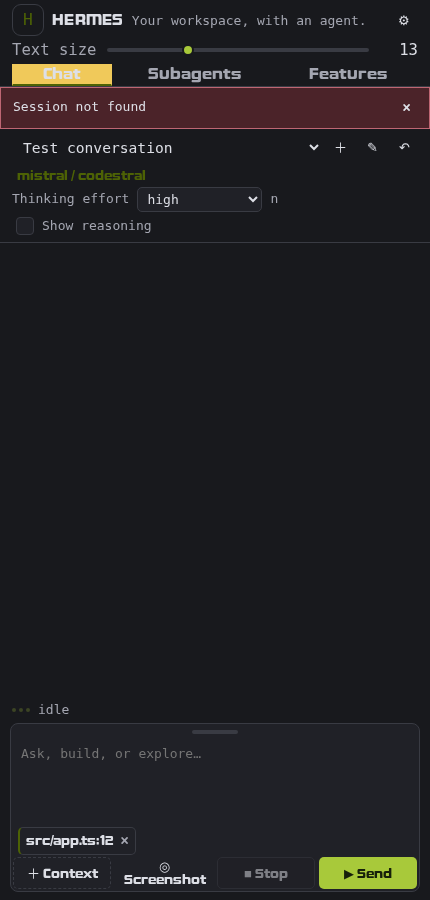
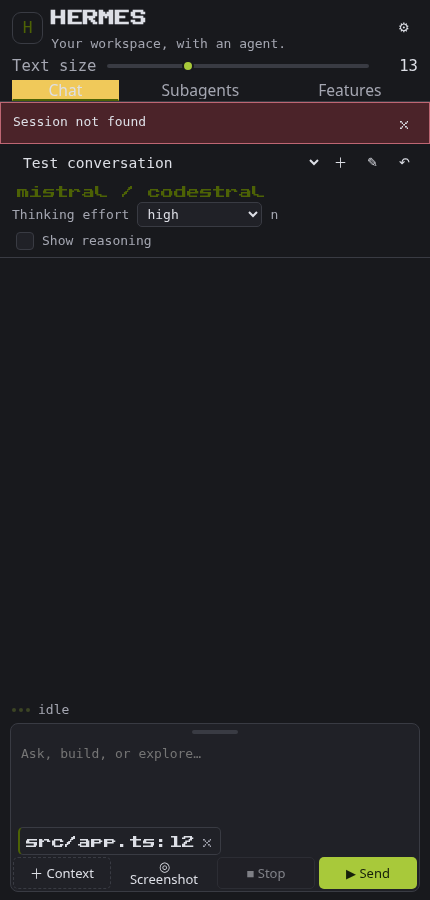
Release 0.1.23: replace the unlicensed Valve font with CC0 Public Pixel
Valve (Typodermic Fonts) ships under a Desktop EULA whose section 4 forbids
embedding the font software in an app, plug-in or extension, so bundling it in
a published VSIX was a licence violation. It is removed, together with the
unused Pixelzone files, and replaced by Public Pixel by GGBotNet (CC0 1.0,
public domain), which permits redistribution.

The pixel face is identity only (wordmark, logo, session title, Connect): it is
about twice as wide per character, so at the 1.2x header size three tab labels
clipped and the 88px action cells overlapped in a 430px sidebar. Tabs and
controls keep the body face at the same size.

Provenance is recorded in media/fonts/PublicPixel.LICENSE.txt and the README.

diff --git a/media/style.css b/media/style.css
@@ -1,22 +1,22 @@
 
-/* ---- Bundled fonts (Pixelzone + Valve) ---- */
-@font-face{font-family:'Pixelzone';src:url('fonts/Pixelzone-Regular.ttf') format('truetype');font-display:swap}
-@font-face{font-family:'Valve';src:url('fonts/Valve-Bold.otf') format('opentype');font-weight:700;font-style:normal;font-display:swap}
-@font-face{font-family:'Valve';src:url('fonts/Valve-BoldItalic.otf') format('opentype');font-weight:700;font-style:italic;font-display:swap}
+/* ---- Bundled font: Public Pixel by GGBotNet (CC0 1.0, public domain) ----
+ * CC0 permits redistribution inside a published extension. The previous face (Valve, Typodermic)
+ * shipped under a Desktop-only EULA that forbids embedding in an app or extension, so it is gone. */
+@font-face{font-family:'Public Pixel';src:url('fonts/PublicPixel.ttf') format('truetype');font-weight:400;font-style:normal;font-display:swap}
 
 /* ---- Element fonts ----
  * The :root variables below are the single source of truth. `body` and `button` here are
  * fallbacks only; the authoritative rules use var(--font-body) / var(--font-display) and
  * they come AFTER :root so they always win over the editor's --vscode-font-family. */
-:root{--font-display:'Pixelzone',monospace;--font-body:'Valve',system-ui,sans-serif;/* Smallest text in the view: scales with radcode.fontSize, floor 13px. */--font-min:max(13px, calc(var(--ui-size,13px) * 0.85));/* Primary actions and navigation: three times the base size. */--font-action:calc(var(--ui-size,13px) * 1.7);/* Menu tabs, logo and the text-size control: exactly 20% above the message text. */--font-title:calc(var(--ui-size,13px) * 1.2)}
-body{font-family:var(--font-body,'Valve',system-ui,sans-serif)}
-button,input,textarea,select{font-family:var(--font-body,'Valve',system-ui,sans-serif)}
-button{font-family:var(--font-display,'Pixelzone',monospace)}
-.session-title{font-family:var(--font-display,'Pixelzone');font-size:20px;font-weight:700}
-.message.thinking .body{font-family:var(--font-body,'Valve',system-ui,sans-serif);font-style:italic}
+:root{--font-pixel:'Public Pixel',ui-monospace,monospace;--font-display:var(--font-pixel);--font-body:system-ui,sans-serif;/* Smallest text in the view: scales with radcode.fontSize, floor 13px. */--font-min:max(13px, calc(var(--ui-size,13px) * 0.85));/* Primary actions and navigation: three times the base size. */--font-action:calc(var(--ui-size,13px) * 1.7);/* Menu tabs, logo and the text-size control: exactly 20% above the message text. */--font-title:calc(var(--ui-size,13px) * 1.2)}
+body{font-family:var(--font-body,system-ui,sans-serif)}
+button,input,textarea,select{font-family:var(--font-body,system-ui,sans-serif)}
+button{font-family:var(--font-body,system-ui,sans-serif)}
+.session-title{font-family:var(--font-display,'Public Pixel');font-size:20px;font-weight:700}
+.message.thinking .body{font-family:var(--font-body,system-ui,sans-serif);font-style:italic}
 .message-time{color:var(--muted);font-size:var(--font-min,13px);margin-left:8px}
 :root{color-scheme:light dark;--bg:var(--vscode-sideBar-background,#18191d);--panel:var(--vscode-editor-background,#202127);--fg:var(--vscode-foreground,#dddfe6);--muted:var(--vscode-descriptionForeground,#a4a6b1);--border:var(--vscode-widget-border,#393b43);--accent:#e5b93c;--on-accent:#1c1a12;--accent-hover:#f0c95a;--accent-dim:rgba(229,185,60,.2);--highlight:#e5b93c}@media(prefers-color-scheme:light){:root{--highlight:#8a6300;--accent-dim:rgba(229,185,60,.35)}}
-*{box-sizing:border-box}body{margin:0;background:var(--bg);color:var(--fg);font:var(--ui-size,13px) var(--ui-font,'Valve',system-ui,sans-serif);line-height:var(--ui-leading,1.55)}button,input,textarea,select{font:inherit}button{font-family:var(--font-display,'Pixelzone',monospace);border:1px solid transparent;border-radius:5px;padding:6px 11px;background:var(--accent);color:var(--on-accent);cursor:pointer}button:hover:not(:disabled){filter:brightness(1.12)}button:not(.quiet):not(.secondary):not(.text-link):hover:not(:disabled){background:var(--accent-hover);filter:none}button:disabled{opacity:.5;cursor:not-allowed}button:focus-visible,input:focus-visible,textarea:focus-visible,select:focus-visible,[tabindex]:focus-visible{outline:2px solid var(--focus,var(--highlight));outline-offset:2px}input,textarea,select{color:var(--vscode-input-foreground,var(--fg));background:var(--vscode-input-background,var(--panel));border:1px solid var(--vscode-input-border,var(--border));border-radius:5px;padding:7px;width:100%;min-width:0}textarea{resize:vertical;line-height:1.5}input[type=checkbox]{width:auto}label{display:block;font-size:var(--font-min,13px);color:var(--muted);margin:8px 0 4px}h1{letter-spacing:-.5px;line-height:1.3;margin:0 0 5px}h2{margin:18px 0 8px}p{margin:7px 0 12px}.caption{font-size:var(--font-min,13px);color:var(--muted)}.brand{display:flex;gap:8px;align-items:center;padding:4px 12px 2px}
+*{box-sizing:border-box}body{margin:0;background:var(--bg);color:var(--fg);font:var(--ui-size,13px) var(--ui-font,system-ui,sans-serif);line-height:var(--ui-leading,1.55)}button,input,textarea,select{font:inherit}button{font-family:var(--font-display,'Public Pixel',monospace);border:1px solid transparent;border-radius:5px;padding:6px 11px;background:var(--accent);color:var(--on-accent);cursor:pointer}button:hover:not(:disabled){filter:brightness(1.12)}button:not(.quiet):not(.secondary):not(.text-link):hover:not(:disabled){background:var(--accent-hover);filter:none}button:disabled{opacity:.5;cursor:not-allowed}button:focus-visible,input:focus-visible,textarea:focus-visible,select:focus-visible,[tabindex]:focus-visible{outline:2px solid var(--focus,var(--highlight));outline-offset:2px}input,textarea,select{color:var(--vscode-input-foreground,var(--fg));background:var(--vscode-input-background,var(--panel));border:1px solid var(--vscode-input-border,var(--border));border-radius:5px;padding:7px;width:100%;min-width:0}textarea{resize:vertical;line-height:1.5}input[type=checkbox]{width:auto}label{display:block;font-size:var(--font-min,13px);color:var(--muted);margin:8px 0 4px}h1{letter-spacing:-.5px;line-height:1.3;margin:0 0 5px}h2{margin:18px 0 8px}p{margin:7px 0 12px}.caption{font-size:var(--font-min,13px);color:var(--muted)}.brand{display:flex;gap:8px;align-items:center;padding:4px 12px 2px}
 .brand>div{display:flex;align-items:baseline;gap:8px;flex-wrap:wrap;min-width:0}.brand strong{font-size:var(--font-min,13px);letter-spacing:2px}.brand .subtitle{display:block;font-size:var(--font-min,13px);color:var(--muted);overflow:hidden;text-overflow:ellipsis;white-space:nowrap}.brand #settings{margin-left:auto}.mark{display:grid;place-items:center;border:1px solid var(--border);border-radius:9px;width:35px;height:35px;font-size:23px;font-weight:300;color:var(--highlight)}.quiet,.secondary{background:transparent;color:var(--fg);border-color:var(--border)}.quiet{border-color:transparent}.tabs{display:flex;border-bottom:1px solid var(--border);padding:0 12px;gap:6px}.tabs button{flex:1;border-radius:0;background:none;color:var(--muted);padding:9px 4px;border-bottom:2px solid transparent}.tabs button[aria-selected=true]{color:var(--fg);border-bottom-color:var(--highlight)}[hidden]{display:none!important}#chat{display:flex;flex-direction:column;height:calc(100vh - 121px);min-height:400px}.session-bar{display:flex;align-items:center;gap:4px;padding:2px 12px;flex-wrap:nowrap;min-width:0}
 .session-bar #sessions{flex:1 1 auto;min-width:0}.session-bar select{background:transparent;border:0}.rename-input{flex:1;min-width:0;padding:4px 6px;font-size:var(--font-min,13px);border-color:var(--focus,var(--highlight))}.route{display:flex;flex-wrap:wrap;gap:2px 8px;align-items:center;padding:0 12px 4px;border-bottom:1px solid var(--border)}.route .model{grid-column:1/-1;text-align:left;padding:0;background:none;color:var(--highlight);overflow:hidden;text-overflow:ellipsis;white-space:nowrap}.route label{margin:0}.route select{width:125px;padding:3px 5px}.route .model:hover{color:var(--accent-hover)}.route .caption{grid-column:1/-1}.welcome{padding:36px 22px 24px}.welcome h1{font-size:var(--font-title);font-weight:550;line-height:1.25;margin:12px 0}.welcome p{color:var(--muted);max-width:38em}.welcome button{margin:6px 0 10px}.eyebrow{letter-spacing:1.3px;font-size:var(--font-min,13px);color:var(--muted)}#transcript{flex:1;overflow:auto;padding:0 16px;min-height:96px;overflow-wrap:anywhere}.message{margin:16px 0}.message-label{font-size:var(--font-min,13px);letter-spacing:.4px;text-transform:uppercase;color:var(--muted);margin-bottom:5px}.message-time{margin-left:8px;letter-spacing:.4px;text-transform:none;color:var(--muted);opacity:.85}.message.user .body{padding:10px 12px;border:1px solid var(--border);border-left:2px solid var(--accent);border-radius:7px;background:var(--panel);white-space:pre-wrap}.message.notice{border-left:2px solid var(--vscode-editorWarning-foreground,#e1b35e);padding-left:10px}.message pre{white-space:pre-wrap;background:var(--panel);padding:10px;border:1px solid var(--border);border-radius:5px;font-size:var(--font-min,13px)}.message code{font-family:var(--vscode-editor-font-family,monospace);font-size:var(--font-min,13px)}.message table{display:block;overflow:auto;border-collapse:collapse}.message td,.message th{border:1px solid var(--border);padding:5px}.message a{color:var(--highlight)}.message details{border:1px solid var(--border);border-radius:5px;padding:8px}.message details pre{border:0;padding:0;margin-bottom:0}.message summary{cursor:pointer;font-size:var(--font-min,13px)}.status-line{display:flex;justify-content:space-between;gap:8px;align-items:center;padding:3px 12px;color:var(--muted);font-size:var(--font-min,13px)}.thinking-label{display:flex;align-items:center;gap:5px;font-size:var(--font-min,13px);margin:0}#composer{margin:0 10px 8px;border:1px solid var(--border);border-radius:8px;overflow:hidden;background:var(--panel);box-shadow:inset 2px 0 0 transparent;transition:border-color .12s,box-shadow .12s}#composer textarea{background:transparent;border:0;border-radius:0;padding:6px 10px;min-height:36px;max-height:160px;display:block;resize:none}#composer textarea:focus-visible{outline-offset:-2px}
 .permissions{display:flex;flex-direction:column;gap:8px;padding:0 12px 6px;max-height:52vh;overflow:auto}
@@ -125,7 +125,7 @@ body.compact .message{margin:9px 0}body.compact #composer textarea{min-height:52
 .thinking-label input[type=checkbox]:hover:not(:disabled){border-color:var(--focus,var(--highlight))}
 .thinking-label input[type=checkbox]:checked{background:var(--accent);border-color:var(--accent)}
 .thinking-label input[type=checkbox]:checked::after{content:'✓';position:absolute;inset:0;display:grid;place-items:center;
- color:var(--on-accent);font-family:var(--font-body,'Valve',sans-serif);font-size:13px;line-height:1}
+ color:var(--on-accent);font-family:var(--font-body,sans-serif);font-size:13px;line-height:1}
 .thinking-label input[type=checkbox]:focus-visible{outline:2px solid var(--focus,var(--highlight));outline-offset:2px}
 
 /* ---- Type hierarchy -------------------------------------------------------------
@@ -134,7 +134,7 @@ body.compact .message{margin:9px 0}body.compact #composer textarea{min-height:52
  * hierarchy inverted — the wordmark and section labels sat at body size while the action
  * buttons were three times larger, so nothing read as more important than anything else.
  * Meta text (times, context meter, status) deliberately keeps the 13px floor. */
-.brand strong{font-family:var(--font-display,'Pixelzone',monospace);font-size:var(--font-title);letter-spacing:.3px}
+.brand strong{font-family:var(--font-display,'Public Pixel',monospace);font-size:var(--font-title);letter-spacing:.3px}
 .brand .mark{font-size:var(--font-title)}
 .brand .subtitle{font-size:var(--font-min,13px);line-height:1.2}
 .session-title{font-size:var(--font-title)}
@@ -169,7 +169,7 @@ dialog,.approval-details{max-height:80vh;overflow:auto}
 
 /* ---- Welcome / connect: the first thing anyone clicks --------------------------- */
 #connect,.welcome button{border:1px solid var(--accent);background:var(--accent);color:var(--on-accent);
- font-family:var(--font-display,'Pixelzone',monospace);font-size:var(--font-action);line-height:1;
+ font-family:var(--font-display,'Public Pixel',monospace);font-size:var(--font-action);line-height:1;
  padding:10px 18px;border-radius:6px;cursor:pointer}
 #connect:hover:not(:disabled),.welcome button:hover:not(:disabled){background:var(--accent-hover);border-color:var(--accent-hover)}
 #connect:disabled{opacity:.6;cursor:default}
@@ -182,8 +182,12 @@ dialog,.approval-details{max-height:80vh;overflow:auto}
 .brand strong,.brand .mark,.session-title,h1,h2{font-size:var(--font-title)}
 
 /* Unified readable scale: defaults at a 16px message size. */
-:root{--ui-size:16px;--font-display:var(--font-body);--font-action:var(--ui-size);--font-min:max(13px,calc(var(--ui-size) * .8125));--font-detail:max(13px,calc(var(--ui-size) * .875))}
+:root{--ui-size:16px;--font-display:var(--font-pixel);--font-action:var(--ui-size);--font-min:max(13px,calc(var(--ui-size) * .8125));--font-detail:max(13px,calc(var(--ui-size) * .875))}
 .brand strong,.tabs button,.text-size-row label,.text-size-row output{font-size:var(--font-title)}
+/* Controls use the body face; the bundled pixel face is identity only (wordmark, logo, session
+ * title, Connect). A pixel face is ~2x wider per character, so at the 1.2x header size it clips
+ * three tab labels and spills out of the 88px action grid in a 430px sidebar. */
+.tabs button,#screenshot,#stop,#send,#compact,#context-toggle,.brand button,.session-bar button{font-family:var(--font-body,system-ui,sans-serif)}
 .brand .mark{font-size:calc(var(--ui-size) * 1.25);width:32px;height:32px}
 .session-title,#sessions{font-size:calc(var(--ui-size) * 1.125)}
 .brand button,.session-bar button{font-size:var(--ui-size);min-width:28px;min-height:28px}

diff --git a/media/view.html b/media/view.html
@@ -26,7 +26,7 @@
 <div id="route" class="route" hidden><button id="model" class="model" title="Change provider and model">Select model</button><label for="effort">Thinking effort</label><select id="effort" aria-label="Thinking effort"><option value="default">Default</option></select><span id="effort-note" class="caption"></span><label class="thinking-label"><input id="show-thinking" type="checkbox">Show reasoning</label></div>
 <div id="warning" class="warning" hidden></div>
 
-<div id="welcome" class="welcome"><span class="eyebrow">RADCODE · VERSION 0.1.22</span><h1>Make room for<br>your next idea.</h1><p>Chat with Hermes in your project. Inspect its tool activity and give focused work to configurable agents.</p><button id="connect">Connect to Hermes</button><p class="caption">Uses your existing Hermes login and profile.<br>Tools can modify files and run commands.</p></div>
+<div id="welcome" class="welcome"><span class="eyebrow">RADCODE · VERSION 0.1.23</span><h1>Make room for<br>your next idea.</h1><p>Chat with Hermes in your project. Inspect its tool activity and give focused work to configurable agents.</p><button id="connect">Connect to Hermes</button><p class="caption">Uses your existing Hermes login and profile.<br>Tools can modify files and run commands.</p></div>
 <h2 id="session-title" class="session-title" hidden></h2>
 <div id="transcript" role="log" aria-label="Conversation transcript" aria-live="off" tabindex="0"></div>
 <div class="status-line"><span class="status-spinner" data-state="idle" aria-hidden="true"><i class="dot"></i><i class="dot"></i><i class="dot"></i></span><span id="status" role="status" aria-live="polite">Not connected</span><label class="sr-only" for="mode">Approval mode</label><select id="mode" class="mode-select" title="When Hermes must ask before editing files" hidden><option value="">Approvals</option></select><div class="context-meter" id="context-meter" hidden><div class="meter" role="progressbar" id="context-bar" aria-label="Context used" aria-valuemin="0" aria-valuemax="100" aria-valuenow="0"><span id="context-fill"></span></div><span id="context-text" class="caption">—</span><button type="button" id="compact" class="quiet" title="Summarise older turns to free context (Hermes /compress)">Compact</button></div></div>
@@ -63,7 +63,7 @@
 <h2>Worker runs</h2><div id="worker-runs"><p class="caption">No workers started yet.</p></div>
 </section>
 <section id="features" role="tabpanel" aria-labelledby="tab-features" hidden>
-<div class="section-title"><div><h1>Your Hermes profile</h1><p class="caption">The memory and persona the agent actually loads.</p></div><span class="badge">v0.1.22</span></div>
+<div class="section-title"><div><h1>Your Hermes profile</h1><p class="caption">The memory and persona the agent actually loads.</p></div><span class="badge">v0.1.23</span></div>
 <p class="caption">These files live in your Hermes profile (<code id="profile-home">HERMES_HOME</code>). Edits are written to disk when you press Save; they apply to the next session.</p>
 <div id="profile-files"></div>
 <div class="feature-card"><h2>Skills, tools & automation</h2><p>Skills, tools, MCP servers, delegation, goals, cron and hooks stay managed by Hermes itself. Everything on this tab comes from the profile on disk.</p><button class="text-link" data-doc="user-guide/features/overview">Full feature overview ↗</button></div>

diff --git a/src/infrastructure/AcpClient.ts b/src/infrastructure/AcpClient.ts
@@ -54,7 +54,7 @@ export class AcpClient extends EventEmitter {
     };
     try {
       this.initialized = await rpc.request('initialize', {
-        protocolVersion: 1, clientCapabilities: {}, clientInfo: { name: 'radcode-hermes', version: '0.1.22' }
+        protocolVersion: 1, clientCapabilities: {}, clientInfo: { name: 'radcode-hermes', version: '0.1.23' }
       });
       return this.initialized;
     } catch (error) { this.dispose(); throw error; }

diff --git a/README.md b/README.md
@@ -1,10 +1,10 @@
 # RadCode — Hermes Agent for VS Code
 
-[![Version](https://img.shields.io/badge/version-0.1.22-e5b93c)](CHANGELOG.md)
+[![Version](https://img.shields.io/badge/version-0.1.23-e5b93c)](CHANGELOG.md)
 [![License: MIT](https://img.shields.io/badge/license-MIT-e5b93c)](LICENSE)
 [![GitHub](https://img.shields.io/badge/source-GitHub-e5b93c)](https://github.com/lainiceanuraduc/RadCode)
 
-A VSCodium / VS Code extension for [Hermes Agent](https://hermes-agent.nousresearch.com/docs) — v0.1.22.
+A VSCodium / VS Code extension for [Hermes Agent](https://hermes-agent.nousresearch.com/docs) — v0.1.23.
 It talks to your existing Hermes installation over **ACP** (Agent Client Protocol) — no API keys are
 stored in VS Code, and no Hermes configuration is modified.
 
@@ -57,7 +57,7 @@ Extension Development Host.
 > missing.
 
 
-## What's new in 0.1.22
+## What's new in 0.1.23
 
 - **Model picker modal.** The model button opens a dialog with two lists: **Favorites** (kept by the
   extension in VS Code global state) and **All models** for the selected provider. Star a model to
@@ -93,6 +93,19 @@ Extension Development Host.
 | Appearance | `radcode.accent` picks the highlight colour (yellow default, 8 palettes), `radcode.fontFamily`/`fontSize`/`lineHeight`/`compact` restyle the view. Changes apply live |
 | Profile | "Features" tab reads the profile on disk: `SOUL.md`, `memories/USER.md`, `memories/MEMORY.md`, each editable with an explicit Save |
 | Diagnostics | "RadCode Hermes" output channel with secret redaction |
+
+## Bundled font, and why it changed
+
+The UI's display face (buttons, tabs, wordmark, session title — never message text) is
+**Public Pixel** by GGBotNet, licensed **CC0 1.0 (public domain)**: `media/fonts/PublicPixel.ttf`, with
+provenance in `media/fonts/PublicPixel.LICENSE.txt`. CC0 permits redistribution inside a published
+extension.
+
+Before 0.1.23 that face was *Valve* by Typodermic Fonts, which ships under a **Desktop-only** EULA.
+That agreement forbids embedding the font software in "an app, game, desktop application, plug-in,
+extension, mod, or other software", so shipping it inside a VSIX was a licence violation — corrected
+in 0.1.23 by removing those `.otf` files and the unused Pixelzone face. Versions 0.1.21 and 0.1.22
+still contain it; update to 0.1.23.
 
 ## Requirements
 
@@ -232,7 +245,7 @@ npm test              # unit tests (transport, ACP, presets, sessions, control)
 npm run test:python   # Hermes-side helper tests (needs Hermes' Python)
 npm run test:ui       # Playwright: rendering, CSP, sanitization, capability select, a11y labels
 npm run test:live     # real ACP handshake + session + effort read-back
-npm run package       # produces radcode-hermes-0.1.22.vsix
+npm run package       # produces radcode-hermes-0.1.23.vsix
 ```
 
 The extension-host test (`test/extension-host.ts`) is run in a real editor:

diff --git a/CHANGELOG.md b/CHANGELOG.md
@@ -1,5 +1,19 @@
 # Changelog
 
+## 0.1.23
+
+- **Removed the bundled Valve font (licence fix).** `Valve-Bold.otf`/`Valve-BoldItalic.otf` are
+  Typodermic Fonts software under a Desktop EULA whose §4 explicitly forbids use in "an app, game,
+  desktop application, plug-in, extension, mod, or other software" and forbids distributing the font
+  files. Shipping them inside the VSIX was a licence violation, so they no longer ship.
+- **The display face is now Public Pixel by GGBotNet (CC0 1.0, public domain)**, which permits
+  redistribution in a published extension. It styles buttons, tabs, the HERMES wordmark and the
+  session title — message text, prompts and replies keep following `radcode.fontFamily`.
+- Dropped the unused Pixelzone files (CC0, unreferenced since the 0.1.20 type-scale change); the
+  extension is ~360 KB smaller.
+- Added `media/fonts/PublicPixel.LICENSE.txt` and a README section recording provenance, so the
+  licence situation of every bundled binary is stated rather than assumed.
+
 ## 0.1.22
 
 - Model button opens a picker modal: a Favorites list persisted by the extension and, per provider,
